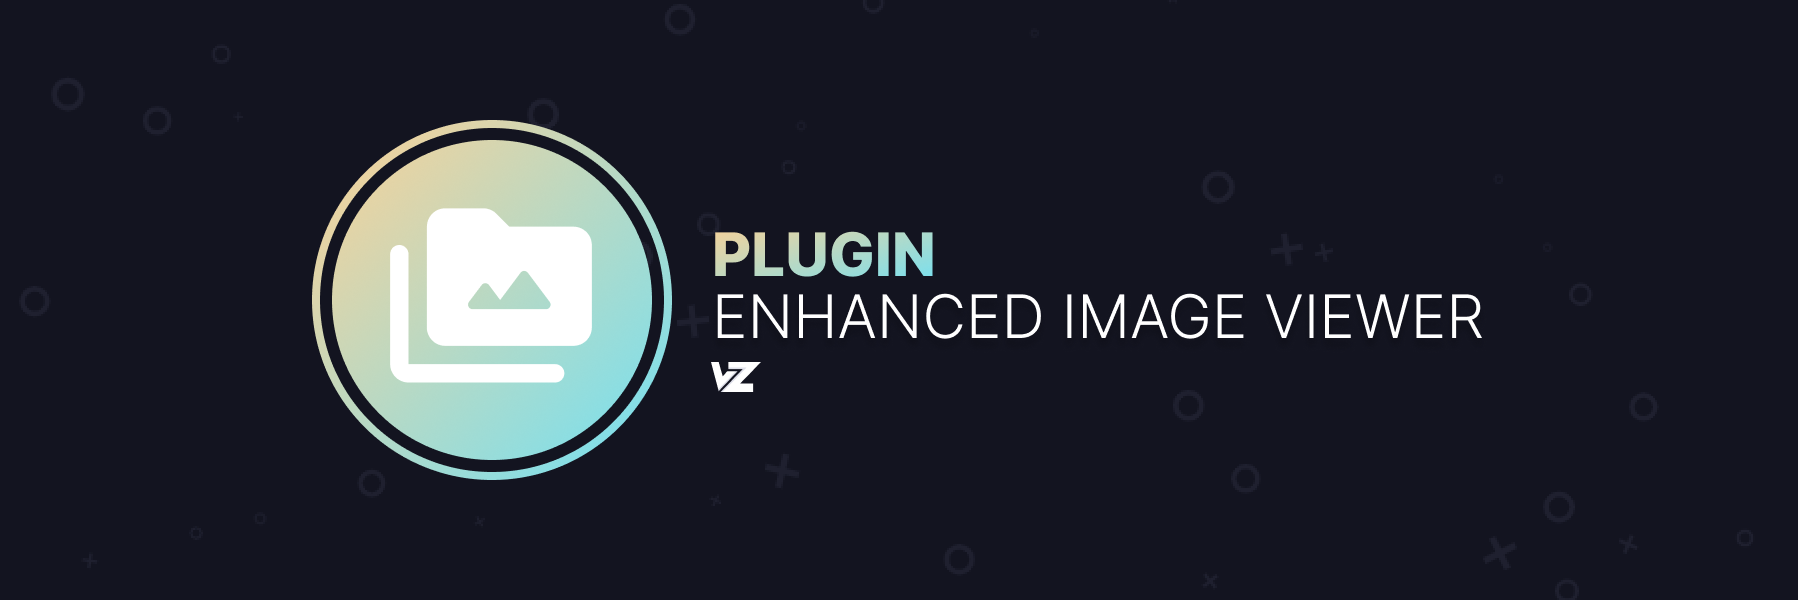
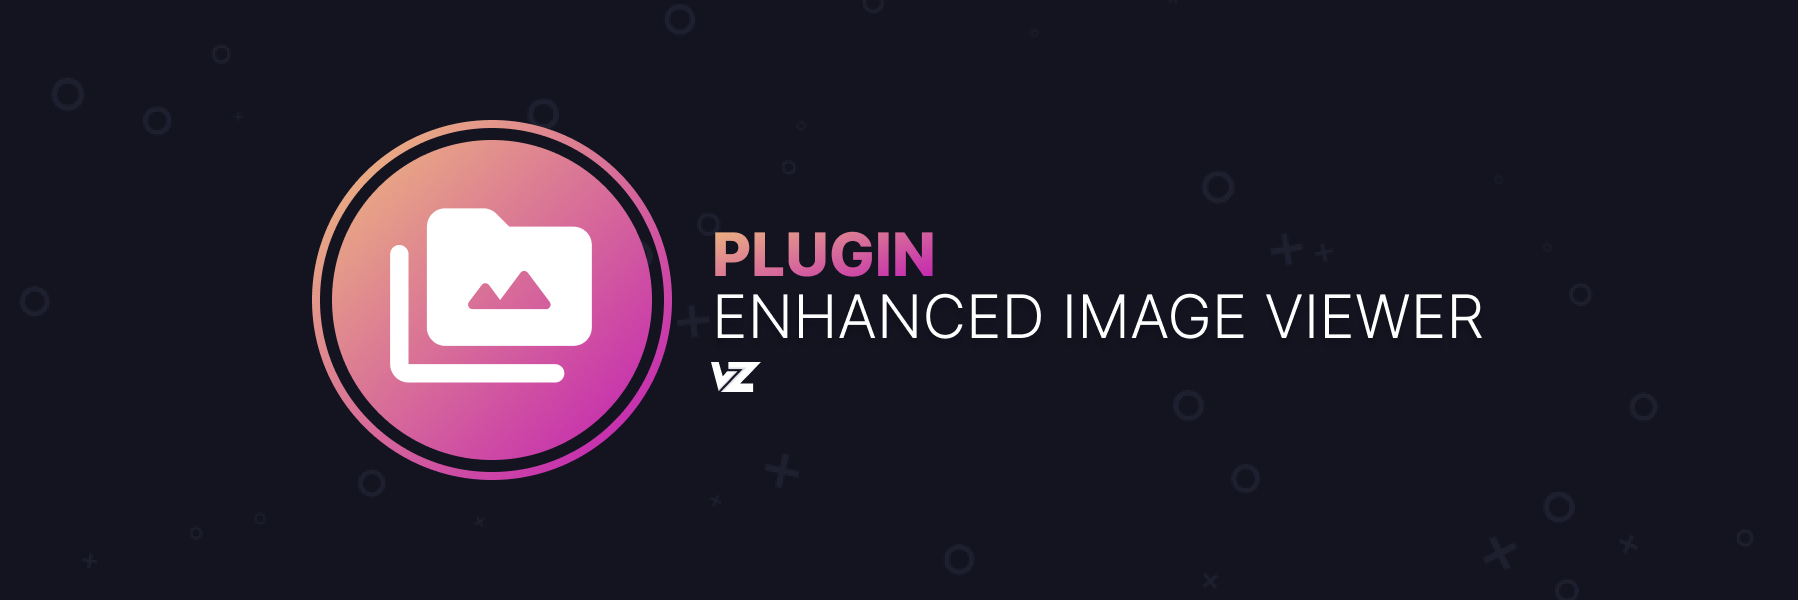
changed the colors

Changed region(s): [[0.1557, 0.18, 0.5295, 0.81]]

diff --git a/components/Settings.jsx b/components/Settings.jsx
@@ -21,7 +21,7 @@ module.exports = class Settings extends React.PureComponent {
         }
         return <>
             <Category name="Image Preview" opened={this.state.preview_opened} onChange={()=> this.setState({ preview_opened: !this.state.preview_opened})}>
-                <EnhancedImage settings={settingSetup} width={1200/2} height={675/2} src="https://cdn.discordapp.com/attachments/738968109288914976/811383816845131806/unknown.png"/>
+                <EnhancedImage settings={settingSetup} width={1798/2} height={600/2} src="https://raw.githubusercontent.com/hoofer-vizality/enhanced-image-viewer/main/assets/banner.png"/>
             </Category>
             <Category name="Customization" opened={this.state.custom_opened} onChange={()=> this.setState({ custom_opened: !this.state.custom_opened})}>
 
